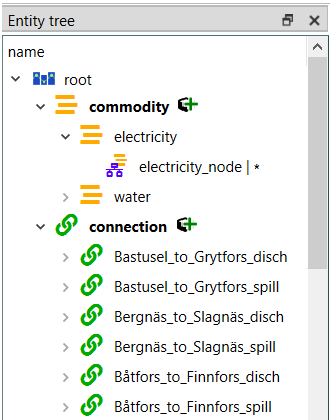
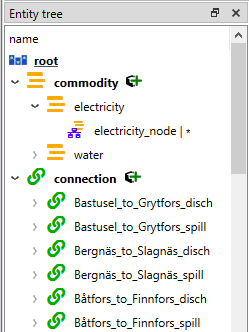
Enhancements in Entity tree
- The root is no longer collapsible, entity classes are always visible.
- The root item is now bolded and underlined.
- Entity classes are no longer indented to save space horizontal space.

#2773

diff --git a/spinetoolbox/spine_db_editor/widgets/custom_qtreeview.py b/spinetoolbox/spine_db_editor/widgets/custom_qtreeview.py
@@ -35,6 +35,7 @@ class EntityTreeView(CopyPasteTreeView):
         """
         super().__init__(parent=parent)
         self.setItemDelegate(AddEntityButtonDelegate(self))
+        self.setRootIsDecorated(False)
         self._context_item = None
         self._selected_indexes = {}
         self._menu = QMenu(self)
@@ -223,6 +224,12 @@ class EntityTreeView(CopyPasteTreeView):
             for item in model.visit_all(index):
                 self.collapse(model.index_from_item(item))
 
+    def collapse(self, index):
+        """Overridden to prevent the collapse of the root item"""
+        if not index.parent().isValid():
+            return
+        super().collapse(index)
+
     def export_selected(self):
         """Exports data from selected indexes using the connected Spine db editor."""
         self._spine_db_editor.export_selected(self._selected_indexes)
@@ -243,6 +250,18 @@ class EntityTreeView(CopyPasteTreeView):
         self._context_item = self.model().item_from_index(index)
         self.update_actions_availability()
         self._menu.exec(event.globalPos())
+
+    def mouseDoubleClickEvent(self, event):
+        """Overridden to not allow collapsing of the root item by double click."""
+        pos = self.viewport().mapFromGlobal(event.globalPos())
+        index = self.indexAt(pos)
+        model = index.model()
+        if model:
+            item = model.item_from_index(index)
+            if item.item_type == "root":
+                event.ignore()
+                return
+        super().mouseDoubleClickEvent(event)
 
     def mousePressEvent(self, event):
         """Overrides selection behaviour if the user has selected sticky selection in Settings.

diff --git a/spinetoolbox/spine_db_editor/mvcmodels/entity_tree_item.py b/spinetoolbox/spine_db_editor/mvcmodels/entity_tree_item.py
@@ -44,6 +44,14 @@ class EntityTreeRootItem(MultiDBTreeItem):
         super().__init__(*args, **kwargs)
         self._has_children_initially = True
 
+    def data(self, column, role=Qt.ItemDataRole.DisplayRole):
+        if role == Qt.FontRole and column == 0:
+            font = QFont()
+            font.setBold(True)
+            font.setUnderline(True)
+            return font
+        return super().data(column, role)
+
     @property
     def visible_children(self):
         return [x for x in self.children if not x.is_hidden()]

diff --git a/docs/source/spine_db_editor/viewing_data.rst b/docs/source/spine_db_editor/viewing_data.rst
@@ -20,8 +20,6 @@ The **Entity Tree** presents the structure of entity classes and entities in all
 .. image:: img/entity_tree.png
    :align: center
 
-- To view all entity classes from all databases,
-  expand the root item (automatically expanded when loading the form).
 - To view all entities of a class, expand the corresponding entity class item.
 - To view all multidimensional entities where a specific entity is an member, expand that entity.
 
@@ -64,6 +62,9 @@ Unavailable options are still visible but they are greyed out:
    This will only expand the next layer and leave the children expanded or collapsed depending on their previous
    state. Items in gray don't have any children, thus they cannot be expanded. To collapse an expanded item,
    double-click on it again or press the left arrow.
+
+.. tip:: Expand or collapse all items by selecting **Fully collapse**/**Fully expand** from the root item's
+         context menu.
 
 .. tip:: **Entity Tree** also supports **Sticky selection**, which allows one to
    extend the selection by clicking on items *without pressing* **Ctrl**. To enable **Sticky selection**, select
